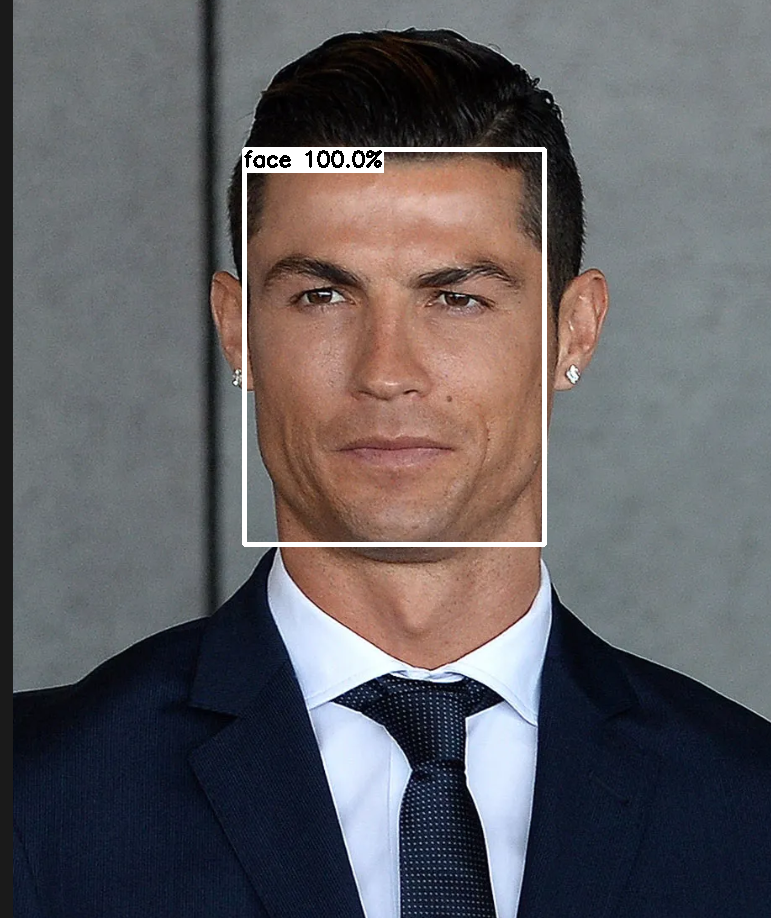
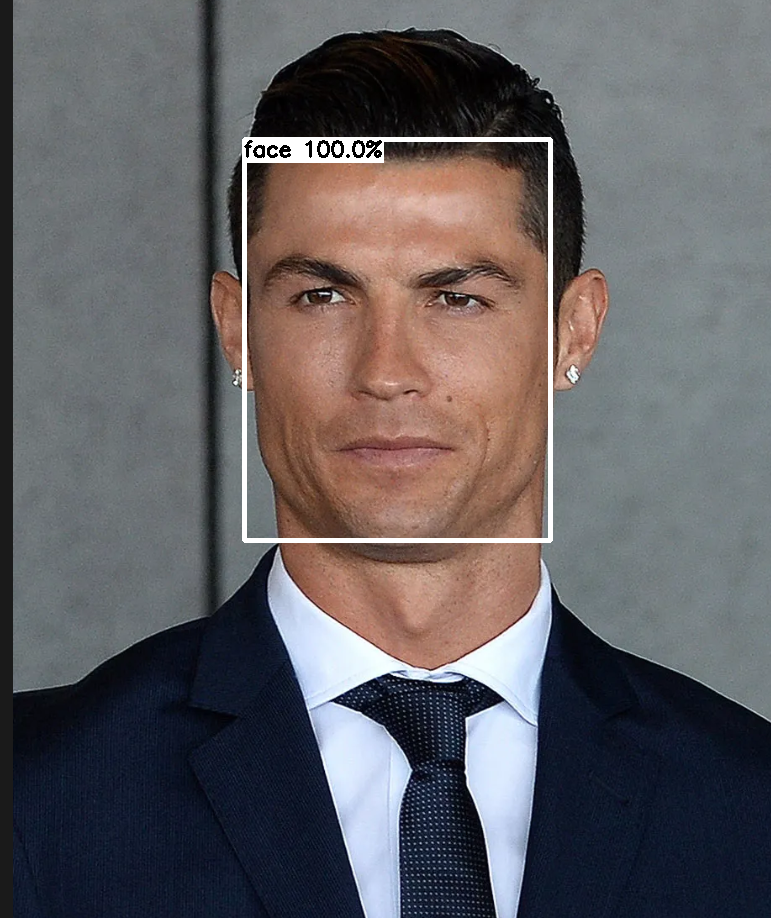
update

Changed region(s): [[0.3113, 0.122, 0.716, 0.61]]

diff --git a/scripts/example.py b/scripts/example.py
@@ -3,12 +3,12 @@ import tensorrt_inference_py
 from pathlib import Path
 img_file = Path.home() / "data" / "test_images" / "image2.png"
 image =cv2.imread(img_file.as_posix())
-detector = tensorrt_inference_py.detection.Detection("retinaface2","")
+detector = tensorrt_inference_py.detection.Detection("facedetector","")
 params = tensorrt_inference_py.detection.DetectionParams()
 rect = tensorrt_inference_py.detection.Rect()
 
 
-objects = detector.detect(image,params)
+objects = detector.detect(image,params,['face'])
 print(len(objects))
-image1 = detector.draw(image,objects,params,["face"],2)
+image1 = detector.draw(image,objects,params,2)
 cv2.imwrite("result.png",image1)
